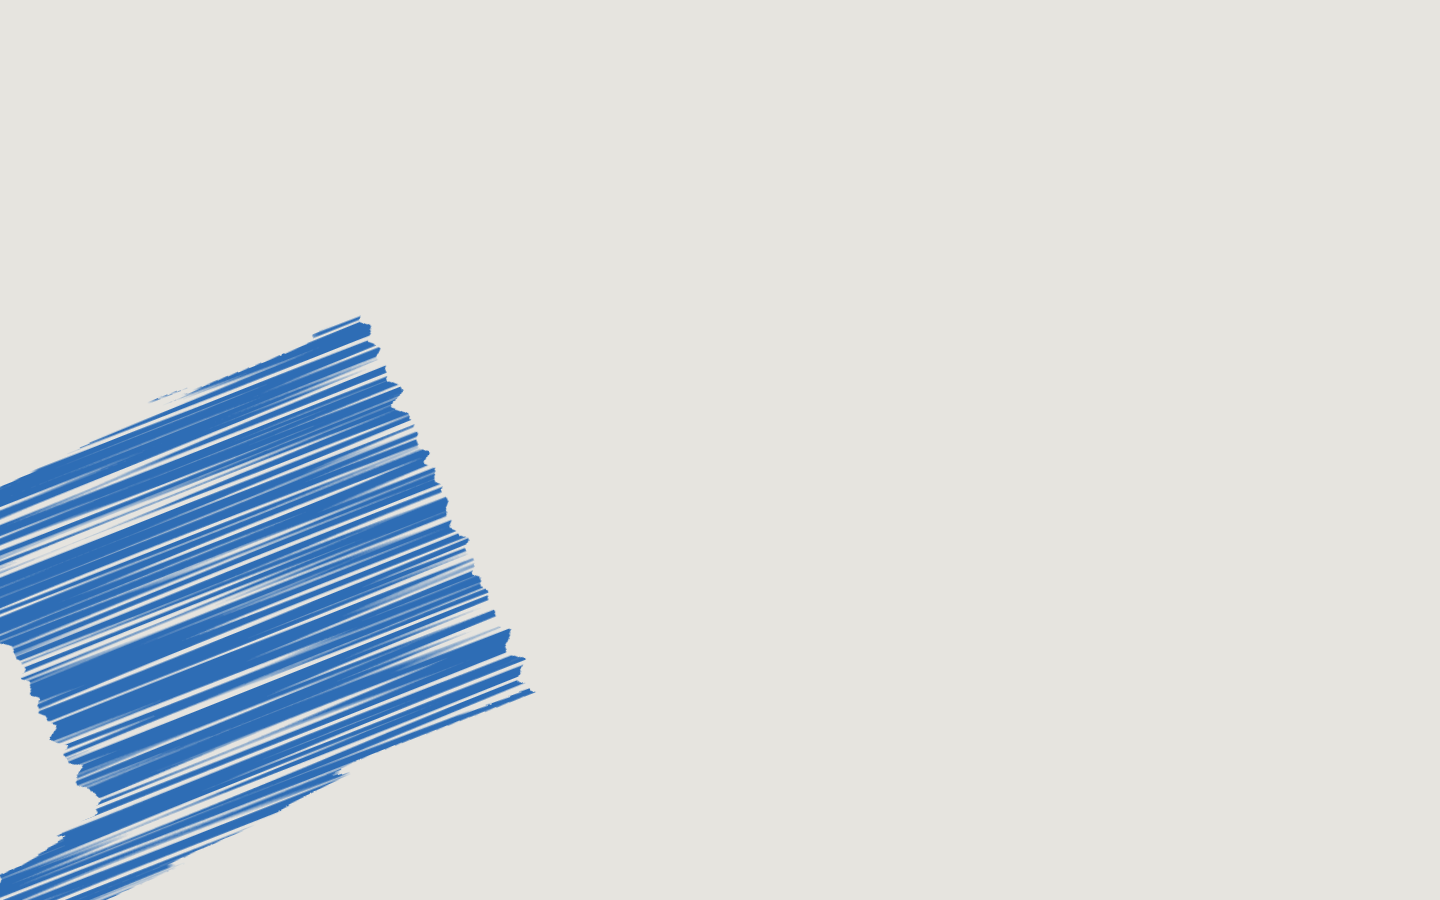
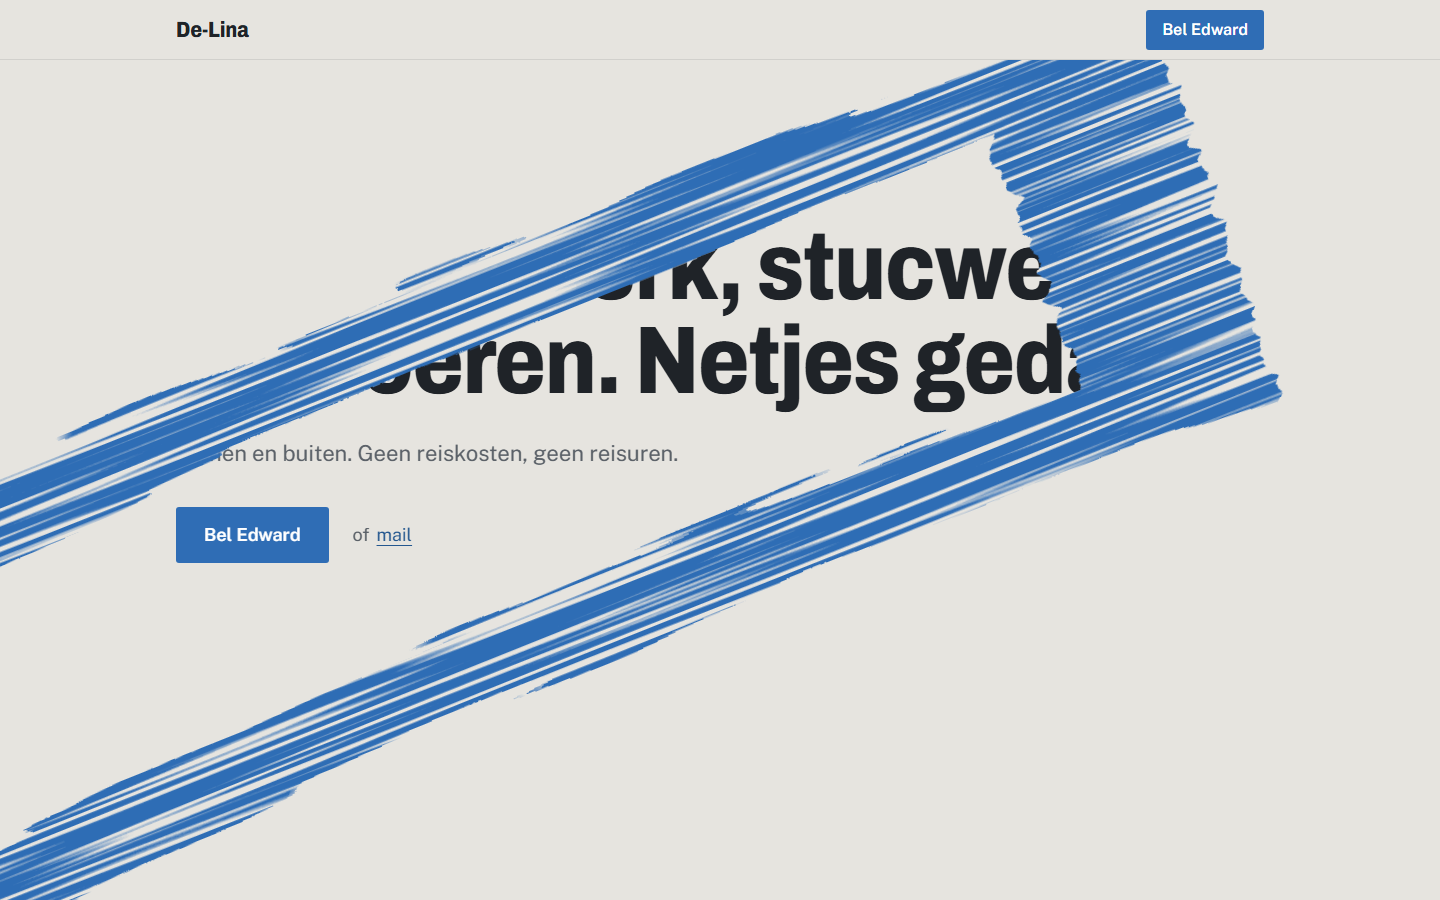
Auto-playing brush intro, scroll reveals and smooth scrolling
Claude-Session: https://claude.ai/code/session_013vneYXeaEt931szDiDqM8n

Changed region(s): [[0.0, 0.0, 0.9062, 1.0], [0.125, 0.0, 0.1875, 0.0622]]

diff --git a/index.html b/index.html
@@ -18,12 +18,9 @@
     // Scroll animations only enhance: without this class everything is simply visible
     root.classList.add('motion');
 
-    // Intro once per visit, never when storage is blocked
+    // Scroll-driven intro until it has been painted once this visit; never when storage is blocked
     try {
-      if (!sessionStorage.getItem('delina-intro')) {
-        sessionStorage.setItem('delina-intro', '1');
-        root.classList.add('has-intro');
-      }
+      if (!sessionStorage.getItem('delina-intro')) root.classList.add('has-intro');
     } catch (e) {}
 
     // Smooth (inertia) scrolling on mouse/trackpad devices only; phones keep native scrolling
@@ -150,17 +147,14 @@
   .actions .alt { color: var(--muted); }
   .alt a { display: inline-block; padding: .6rem .15em; }
 
-  /* ---------- Intro: brush stroke that paints the page in ---------- */
+  /* ---------- Intro: a brush stroke paints the page open (~1s, scrolling speeds it up) ---------- */
+  /* Shown only once the intro script has set it up (html.intro-on), so a broken script never hides the page.
+     It sits under the nav, so "Bel Edward" in the nav stays visible and clickable throughout. */
   .intro { display: none; }
-  html.has-intro .intro {
-    display: block; position: fixed; inset: 0; z-index: 100;
-    /* fail-safe: never cover the page for long, even if the script breaks */
-    animation: intro-failsafe 0s 2.5s forwards;
-  }
+  html.intro-on .intro { display: block; position: fixed; inset: 0; z-index: 9; }
   .intro svg { display: block; width: 100%; height: 100%; }
   .intro .cover { fill: var(--plaster); }
   .intro .paint { stroke: var(--tape); }
-  @keyframes intro-failsafe { to { visibility: hidden; } }
 
   /* ---------- Services ---------- */
   .services .lead { margin-bottom: 2.5rem; }
@@ -301,20 +295,24 @@
   var root = document.documentElement, intro = document.getElementById('intro');
   if (!root.classList.contains('has-intro')) { intro.remove(); return; }
 
-  var w = innerWidth, h = innerHeight;
+  var w = innerWidth, h = innerHeight, diag = Math.hypot(w, h);
   // diagonal from bottom-left to top-right, drawn along local x so the bristle noise follows the stroke
-  var dx = w * 1.1, dy = h * .7, len = Math.hypot(dx, dy);
-  var angle = -Math.atan2(dy, dx) * 180 / Math.PI;
+  var angle = -Math.atan2(h * .8, w * 1.25) * 180 / Math.PI;
   var width = Math.max(170, Math.min(w, h) * .46);
-  var full = Math.hypot(w, h) * 2.2;
+  var full = diag * 2.2;
+  // Both ends sit beyond the screen's corners (plus the brush's displacement), so a stroke end
+  // can never show, not even when the stroke grows to full width.
+  var len = diag + width + 80;
   var d = 'M' + (-len / 2) + ' 0 Q 0 ' + (-width * .3) + ' ' + (len / 2) + ' 0';
 
   intro.querySelectorAll('.stroke-pos').forEach(function (g) {
     g.setAttribute('transform', 'translate(' + w / 2 + ' ' + h / 2 + ') rotate(' + angle + ')');
   });
+  // filter area = a circle around the screen, so the texture stays on while the stroke grows to full screen
+  var reach = Math.hypot(w, h) / 2 + 40;
   intro.querySelectorAll('filter').forEach(function (f) {
-    f.setAttribute('x', -len / 2 - width); f.setAttribute('width', len + width * 2);
-    f.setAttribute('y', -width * 1.3); f.setAttribute('height', width * 2.6);
+    f.setAttribute('x', -reach); f.setAttribute('width', reach * 2);
+    f.setAttribute('y', -reach); f.setAttribute('height', reach * 2);
   });
   var hole = intro.querySelector('.hole'), paint = intro.querySelector('.paint');
   hole.setAttribute('d', d); paint.setAttribute('d', d);
@@ -322,33 +320,62 @@
   hole.style.strokeWidth = holeWidth + 'px';
   paint.style.strokeWidth = width + 'px';
 
-  var anims = [], done = false;
-  var skipEvents = ['pointerdown', 'touchstart', 'wheel', 'keydown', 'scroll'];
-  function end() {
-    if (done) return; done = true;
-    anims.forEach(function (a) { a.cancel(); });
-    skipEvents.forEach(function (t) { removeEventListener(t, end, true); });
-    intro.remove();
-    root.classList.remove('has-intro');
+  // Progress 0→1 runs by itself in ~1s (scrolling plays it faster):
+  //   0–.55  the paint sweeps across     .04–.60  the page opens up just behind it
+  //   .55–1  the opening grows to full screen (hero readable well before 1s), then the intro is removed
+  var DURATION = 1000, FAST = 3;
+  // skip the part of the stroke that lies off-screen at the start, so paint appears from the first frame
+  var rad = angle * Math.PI / 180;
+  var onAxis = w / 2 * Math.abs(Math.cos(rad)) + h / 2 * Math.abs(Math.sin(rad));
+  var skip = Math.max(0, (len / 2 - onAxis - width / 2) / len);
+  function clamp(v) { return v < 0 ? 0 : v > 1 ? 1 : v; }
+  function easeOut(t) { return 1 - (1 - t) * (1 - t); }   // paint starts moving at once, settles at the end
+  function render(p) {
+    var a = easeOut(clamp(p / .55)), b = easeOut(clamp((p - .04) / .56)), g = clamp((p - .55) / .45);
+    g *= g;
+    paint.style.strokeDashoffset = 1 - (skip + (1 - skip) * a);
+    hole.style.strokeDashoffset = 1 - (skip + (1 - skip) * b);
+    hole.style.strokeWidth = holeWidth + (full - holeWidth) * g + 'px';
+    paint.style.strokeWidth = width + (full * 1.1 - width) * g + 'px';
   }
-  skipEvents.forEach(function (t) { addEventListener(t, end, { capture: true, passive: true }); });
 
-  // 1. the paint sweeps across (0–820ms); the page opens up just behind it (150–950ms)
-  var ease = 'cubic-bezier(.55, .05, .3, 1)';
-  anims.push(paint.animate([{ strokeDashoffset: 1 }, { strokeDashoffset: 0 }], { duration: 820, easing: ease, fill: 'forwards' }));
-  var last = hole.animate([{ strokeDashoffset: 1 }, { strokeDashoffset: 0 }], { duration: 800, delay: 150, easing: ease, fill: 'both' });
-  anims.push(last);
-
-  // 2. the opening grows to full screen (300ms), then the intro is gone
-  last.onfinish = function () {
+  var p = 0, rate = 1, last = null, done = false;
+  function frame(now) {
     if (done) return;
-    hole.removeAttribute('filter'); paint.removeAttribute('filter');
-    var grow = { duration: 300, easing: 'cubic-bezier(.5, 0, .75, 0)', fill: 'forwards' };
-    anims.push(hole.animate([{ strokeWidth: holeWidth + 'px' }, { strokeWidth: full + 'px' }], grow));
-    var g = paint.animate([{ strokeWidth: width + 'px' }, { strokeWidth: full * 1.1 + 'px' }], grow);
-    anims.push(g);
-    g.onfinish = end;
-  };
+    if (last !== null) p += (now - last) / DURATION * rate;
+    last = now;
+    if (p >= 1) return finish();
+    render(p);
+    requestAnimationFrame(frame);
+  }
+  function hurry() { rate = FAST; }
+
+  var scrollInput = ['wheel', 'touchmove', 'scroll'];
+  function finish() {
+    if (done) return; done = true;
+    intro.remove();
+    root.classList.remove('intro-on', 'has-intro');
+    try { sessionStorage.setItem('delina-intro', '1'); } catch (e) {}
+    scrollInput.forEach(function (t) { removeEventListener(t, hurry); });
+    removeEventListener('keydown', onKey);
+    removeEventListener('focusin', onFocus);
+  }
+  // Ways out: click/tap the cover, Escape/Enter, or tab to anything outside the nav. Scrolling speeds it up.
+  function onKey(e) {
+    if (e.key === 'Escape' || e.key === 'Enter') finish();
+    else if (/^(ArrowDown|PageDown|Space| |End)$/.test(e.key)) hurry();
+  }
+  function onFocus(e) { if (!(e.target.closest && e.target.closest('.nav'))) finish(); }
+
+  try {
+    root.classList.add('intro-on');
+    render(0);
+    intro.addEventListener('click', finish);
+    addEventListener('keydown', onKey);
+    addEventListener('focusin', onFocus);
+    scrollInput.forEach(function (t) { addEventListener(t, hurry, { passive: true }); });
+    requestAnimationFrame(frame);
+  } catch (e) { finish(); }
 })();
 </script>
 
@@ -447,6 +474,7 @@
   // Nav: hide on scroll down, show on scroll up or when scrolling stops
   window.addEventListener('scroll', function () {
     var y = window.scrollY;
+    if (document.documentElement.classList.contains('intro-on')) { lastY = y; return; }   // nav never hides during the intro
     if (y > lastY && y > 80 && !nav.contains(document.activeElement)) nav.classList.add('is-hidden');
     else if (y < lastY) nav.classList.remove('is-hidden');
     lastY = y;

diff --git a/de-lina-design.md b/de-lina-design.md
@@ -116,10 +116,13 @@ Spend all boldness here; keep everything else quiet.
 
 - Each section heading has a strip of blue painter's tape (a slightly rough-edged `--tape` rectangle, a little skewed, ~1–2°) partly behind or under it, like tape on a wall before painting.
 - ~~In the hero, a strip of tape peels away on load~~ (replaced, see intro below). The heading tape is static.
-- **Intro (the one bold moment):** on first load, one wide `--tape` brush stroke sweeps diagonally (bottom-left → top-right) across a `--plaster` cover. It is built in SVG (feTurbulence + feDisplacementMap for rough edges and bristle streaks), not video. The stroke is a mask: the page shows through it as it paints, then the opening grows to full screen and the intro is removed. Total ≈ 1.3s (must stay under 1.5s).
-  - Once per visit (`sessionStorage` key `delina-intro`). Any click, tap, scroll, wheel or key press skips it instantly.
-  - All content is in the HTML underneath from the start; the intro only covers it. A CSS fail-safe hides it after 2.5s even if the script fails.
-  - No other animation in the hero.
+- **Intro (the one bold moment):** one wide `--tape` brush stroke paints diagonally (bottom-left → top-right) across a `--plaster` cover. It is built in SVG (feTurbulence + feDisplacementMap for rough edges and bristle streaks), not video. The stroke is a mask: the page shows through it as it paints, then the opening grows to full screen and the intro is removed.
+  - It never blocks first understanding: it runs by itself, headline, sub line and "Bel Edward" are fully readable at ~0.8s, and the intro is gone at ~1.05s. Scrolling (wheel, touch, scroll keys) plays it 3× faster; nothing has to be scrolled through, and the hero is never pinned.
+  - Both stroke ends sit beyond the screen corners, so no stroke end, edge or hairline is ever visible; only the stroke and the page.
+  - The nav sits above the cover, so "Bel Edward" is visible and clickable throughout. Clicking/tapping the cover, Escape/Enter, or tabbing into the page ends the intro at once.
+  - Once per visit: `sessionStorage` key `delina-intro` is set when the intro finishes.
+  - All content is in the HTML underneath from the start. The cover only appears once the intro script has set itself up (`html.intro-on`), so a script error never hides the page.
+  - No other animation in the hero while the intro runs.
 - **Scrolling (calm, Feadship-like, never flashy):**
   - Desktop (mouse/trackpad): Lenis 1.3.26 inertia scrolling, loaded from jsDelivr with an integrity hash. Touch devices keep native scrolling.
   - Section headings reveal line by line (each line slides up from behind a mask and fades in); the heading tape then draws in from the left.

diff --git a/CLAUDE.md b/CLAUDE.md
@@ -20,7 +20,7 @@ Open `index.html` directly in a browser. No dependencies except Google Fonts (Ar
 ## Page structure (in order)
 
 1. `header.nav`: "De-Lina" + "Bel Edward". Hides on scroll down, returns on scroll up or after 700ms idle.
-0. `div.intro` (first in `<body>`): SVG brush-stroke intro overlay + its inline script. Shown only when the head script adds `html.has-intro` (first visit per session, no reduced motion). Removed from the DOM when done or skipped.
+0. `div.intro` (first in `<body>`): SVG brush-stroke intro overlay + its inline script. Head script adds `html.has-intro` (not yet shown this session, no reduced motion); the intro script adds `html.intro-on` once set up, which shows the cover. Removed from the DOM when finished or skipped.
 2. `section.hero`: h1 (6 words), sub line, `.actions`. No animation in the hero.
 3. `section.services`: "Wat ik doe", `.lead`, plain `ul.list` (not cards), `.cta` with Bel Edward.
 4. (Work section deliberately absent until real photos exist; see HTML comment TODO.)
@@ -47,7 +47,10 @@ Open `index.html` directly in a browser. No dependencies except Google Fonts (Ar
   - Lenis 1.3.26 (jsDelivr, SRI hash) is injected only on `(hover: hover) and (pointer: fine)`; it's available as `window.lenis`.
   - Never put `.reveal` on anything containing a `tel:` link or "Bel Edward": those must never be hidden or delayed.
   - Only animate `transform` and `opacity`.
-- Intro: paint stroke 0–820ms, page opening behind it 150–950ms, opening grows to full screen 950–1250ms. Keep total under 1.5s. Skips on pointerdown/touchstart/wheel/keydown/scroll. Test in a fresh browser context (sessionStorage hides it on reload).
+- Intro is time-driven (`DURATION` 1000ms of progress, `FAST` = 3× once the visitor scrolls). Paint 0–.55, opening .04–.60, opening grows to full screen .55–1, then `finish()` removes it.
+  Hero is fully readable at ~0.8s; intro gone at ~1.05s. Stroke length = screen diagonal + stroke width + 80px, so its ends are always off-screen; `skip` starts the dash at the screen edge.
+  Cover is `z-index: 9` under the nav (10); the nav never hides while `intro-on`.
+  Exits: click on the cover, Escape/Enter, focus outside the nav. Test in a fresh browser context (sessionStorage hides it after it finished once). For frame captures use Playwright's paused clock (`clock.install` + `pauseAt` + `runFor`), since the intro runs on requestAnimationFrame time.
 - Placeholders use `<span class="todo">TODO</span>` (dashed outline). Never invent work area, KvK, hours, reviews or photos.
 
 ## Never
